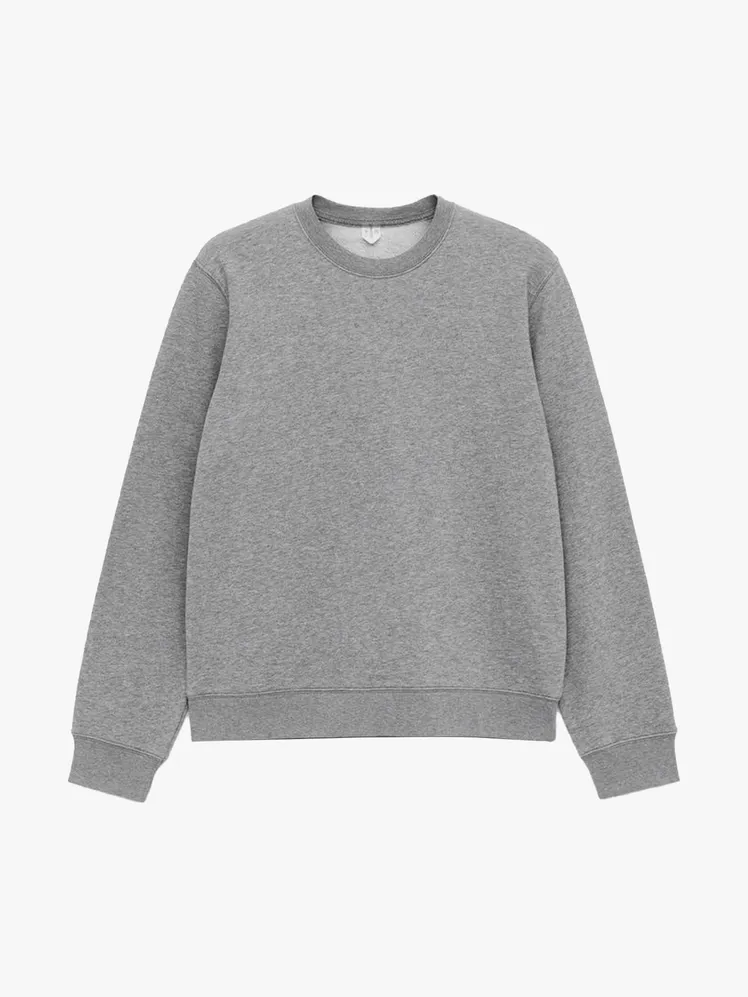
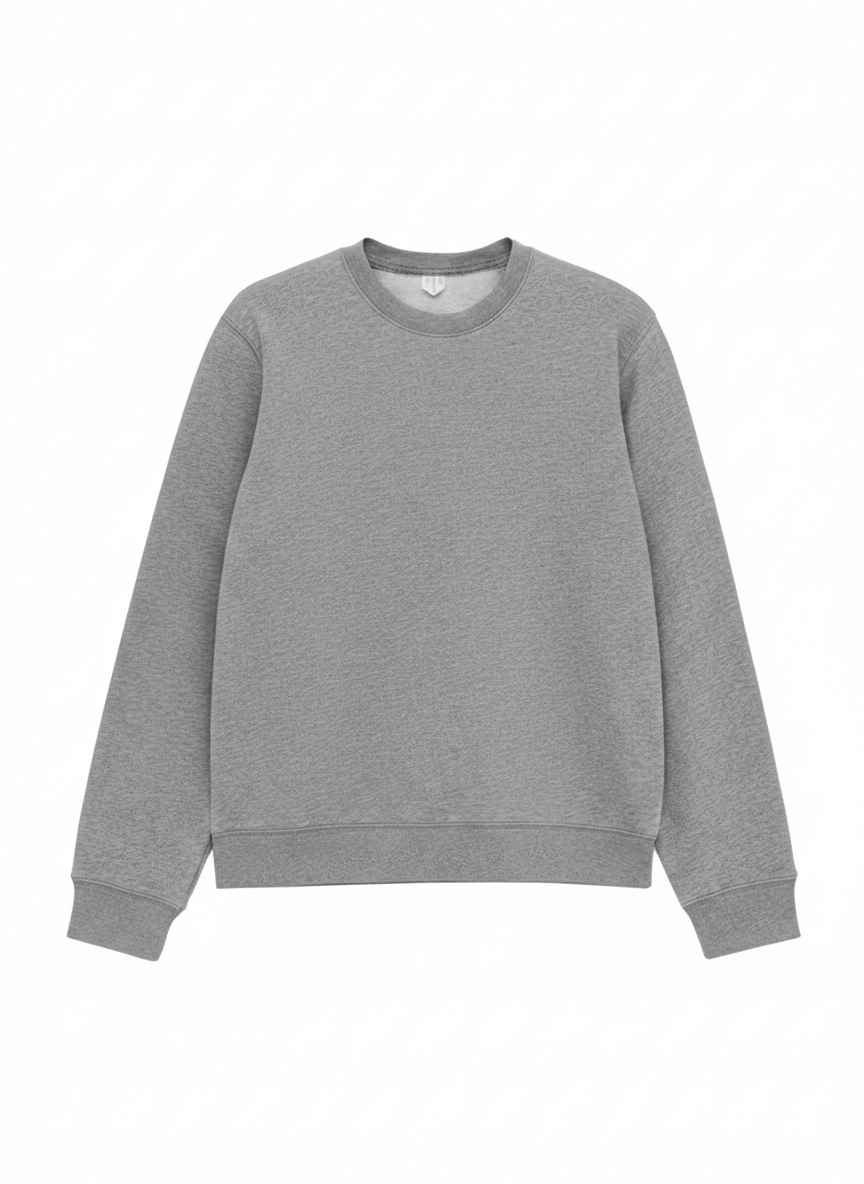
i have modified a background of image grey hoddie and translated a two words from russian to english

diff --git a/index.html b/index.html
@@ -3,7 +3,7 @@
 <head>
     <meta charset="UTF-8">
     <meta name="viewport" content="width=device-width, initial-scale=1.0">
-    <title>Интернет-магазин</title>
+    <title>Web store</title>
     <link rel="stylesheet" href="style.css">
 </head>
 <body>
@@ -49,8 +49,8 @@
 
                 <div class="filter-group">
                     <h3>Price</h3>
-                    <input type="number" id="price-min" placeholder="От">
-                    <input type="number" id="price-max" placeholder="До">
+                    <input type="number" id="price-min" placeholder="from">
+                    <input type="number" id="price-max" placeholder="to">
                 </div>
 
                 <button id="apply-filters">Apply filters</button>
